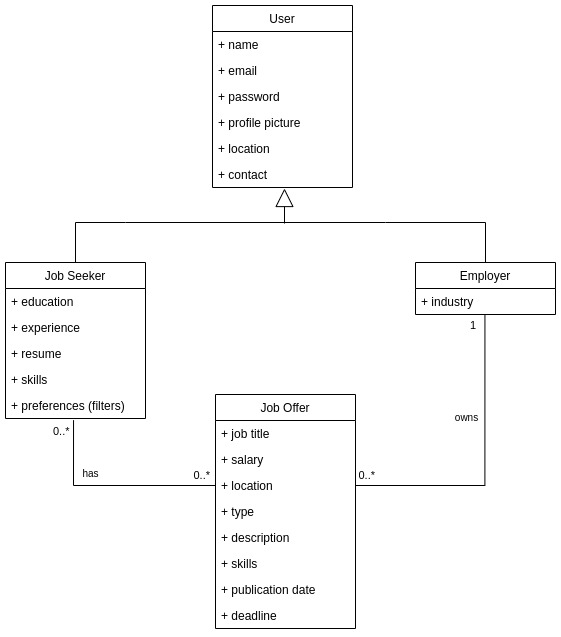
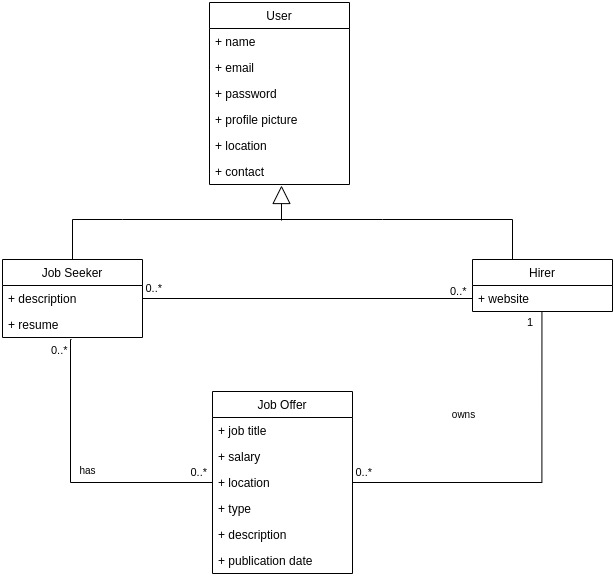
updated report

diff --git a/app/lib/widgets/job_widgets/job_offer.dart b/app/lib/widgets/job_widgets/job_offer.dart
@@ -166,8 +166,8 @@ class JobOffer extends StatelessWidget {
                             onChanged: (value) {
                               bookmark(_id, value);
                             },
-                            iconEnabled: Icon(Icons.bookmark),
-                            iconDisabled: Icon(Icons.bookmark_border),
+                            iconEnabled: const Icon(Icons.bookmark),
+                            iconDisabled: const Icon(Icons.bookmark_border),
                             isEnabled: snapshot.data!,
                           );
                         } else if (snapshot.hasError) {

diff --git a/docs/ProjectManagement.md b/docs/ProjectManagement.md
@@ -1,7 +1,7 @@
 
 ## Project management
 
-**Iteration 1**
+## **Iteration 1**
 
 Begin of iteration:
 <p align="center" justify="center">
@@ -12,9 +12,10 @@ End of iteration:
 <img src="../images/iteration1_end.png" width="700">
 </p>
 
-**Retrospective**: we were not able to complete all the user stories. We could have make a better planning of issues, such as assigning specific people to specific user stories. 
+**Retrospective**: we were not able to complete all the user stories. We could have make a better planning of issues, such as assigning specific people to specific user stories. However, we were able to complete relevant user stories. Also, it was the first iteration in which we had to write code so we were still getting used to the tools and the workflow.
 
-**Iteration 2**
+## **Iteration 2**
+
 Begin of iteration:
 <p align="center" justify="center">
 <img src="../images/iteration2_begin.jpg" width="700">
@@ -23,7 +24,10 @@ End of iteration:
 <p align="center" justify="center">
 <img src="../images/iteration2_end.png" width="700">
 
-**Iteration 3**
+**Retrospective**: we were able to complete all the user stories. We could have make a better planning of issues, such as assigning only one person to a specific user story. This iteration went really well and we implemented most of the main features of the app, allowing a good navigation and interaction with it in a early stage of the development.
+
+## **Iteration 3**
+
 Begin of iteration:
 <p align="center" justify="center">
 <img src="../images/iteration3_begin.jpg" width="700">
@@ -33,4 +37,31 @@ End of iteration:
 <img src="../images/iteration3_end.jpg" width="700">
 </p>
 
- 
+**Retrospective**: this iteration was very complicated due to the fact that we were kind of lost and unsychronized because of other deliveries and exames. Considering this, we could only implement one user story, that was the only one we had put in the iteration backlog because we already knew that the time would be short. The feature is, however, quite nice for the app and provides an extra functionality that fits well in the app.
+We are worried because, probably, we will not be able to implement all the user stories we have planned in the beginning of the project, as the next two weeks will be caotic in terms of other deliveries.
+
+## **Iteration 4**
+
+Begin of iteration:
+<p align="center" justify="center">
+<img src="../images/iteration4_begin.png" width="700">
+</p>
+End of iteration:
+<p align="center" justify="center">
+<img src="../images/iteration4_end.png" width="700">
+</p>
+
+**Retrospective**: as we were expecting, this iteration was very complicated considering that in the previous iterations the work should have been more distributed. We implemented the user story that we defined in the begining of the iteration, however a couple of others still stayed in the backlog waiting to be implemented.
+
+<br>
+<br>
+
+# General Retrospective
+
+In general, we consider that that the app we are delivering, even though is not completed as we wanted it to be, has a nice amount of features and deals with all the tools and concepts that the course was expecting us to apply such as: the integration with an external database (Firebase), the integration with an API to retrieve data (It Jobs), a nice design using Flutter, and a very good lesson in terms of work flow and organization in a team. 
+
+Considering that, at a certain point (end of iteration 3), we noticed that we wouldn't be able to finish what we wanted, we decided to focus on improving the already existing features (such as the search filters, for example). We don't think, though, that we didn't reach what we have proposed because of lack of work. The main reason is because initially we didn't know much about the tools we'd be using. Thus, we submitted an exigent proposal of project (different types of users, with different functionalities for each, etc). As we didn't know, by that time, the implementation details and the exact amount time we'd need to spend on each feature, we ended up discovering that we would probably fail the implementation of all the features during the near-end development. However, it is true that with a better plan this could have been better. 
+
+Unfortunately, we also weren't able to implement relevant testing in our app because we were more worried in delivering the features.
+
+To conclude, we are not completely satisfied with the final result of the app, but we are proud of what we have achieved and we are sure that we have learned a lot with this project. If we forget the initial proposal and think about the app we have now, we consider that is still an app with potential that can be improved in the future and it is, for sure, a good starting point for a future project. Also, it is functional in its main features and domain (only lacking the functionalities we did not implement and some improvements in the existing ones).

diff --git a/docs/ArchitectureAndDesign.md b/docs/ArchitectureAndDesign.md
@@ -2,23 +2,30 @@
 ## Architecture and Design
 ### Logical architecture
 To provide long-term maintainability, the structure of the software is going to be organized in the following layers:
-- **Components**: the main building blocks that will be used to present the user interface, such as buttons, custom widgets, etc.
-- **Screens**: the screens that will be used to present the user interface, such as the login screen, the home screen, etc. Screens will be composed of components.
-- **Controller**: will be responsible for data gathering and manipulation, such as fetchers, parsers, neworking (e.g: login/register ), etc.
-- **Model**: will be responsible for the structure of the data, such as the user model, the job model, etc, using the data collected by the controller. 
+- **Widgets**: the main building blocks that will be used to present the user interface, such as buttons, forms, and other composed widgets that require more than one widget to be built.
+- **Screens**: the screens that will be used to present the user interface, such as the login screen, the home screen, etc. Screens will be composed of widgets.
+- **Controllers**: this is responsible for data gathering and manipulation, such as fetchers, parsers, neworking (e.g: login/register ), etc. This layer will be responsible for the retrieval of data from Firebase and the ItJobs API as well as will serve as a data validator, for example, to check the validity of some user's input.
+- **Models**:  this is responsible for the structure and encapsulation of the data, such as the user model, the job model, etc. Basically, this layer is responsible for the abstraction of the problem domain to the software domain, by defining the entities involved, their attributes and their methods.
 
-![LogicalView](/images/logical_architecture.jpg)
+In addition to these layers that are organized in folders inside the `lib` folder, there are two others: 'Constants' and 'Theme'. However, we decided not to include them in the diagram below because they are not layers, but rather folders that contain files that are used by the other layers. The 'Constants' folder contains files that define constants that are used by the other layers, such as the routes to the screens. The 'Theme' folder contains files that define the theme of the app, such as the colors, the fonts, etc.
+
+Below is a diagram that illustrates the logical architecture of our app. The light boxes represent our in-app layers, while the dark boxes represent external entities that we will interact with (Firebase and ItJobs API):
+
+<p align="center" justify="center">
+<img src="../images/logical_architecture.jpg" width="600"></center>
+</p>
+
 
 ### Physical architecture
 In our app's physical architecture there are 4 main entities:
-- **User's smartphone**: the user's smartphone will be the main device used to access the app. It will be used to display the app's interface and to interact with it.
-- **ITFlow App**: the app will be the main entity of the system. It will be responsible for the user interface and for the interaction with the user.
-- **Firebase Database**: the database will be used to store different information, such as in-app job posting.
-- **ITJobs API**: the API will be used to fetch job offers from an external source.
+- **Smartphone**: the user's smartphone will be the main device used to access the app. It will be used to display the app's interface and to interact with it. It's there where the app will be installed and executed.
+- **ITFlow application**: the app will be the main entity of the system. It will be responsible for the user interface and for the interaction with the user. Note that the app is not a physical entity, but rather a logical one.
+- **Firebase**: this is the service that is used to store the user's data, such as the user's profile, the user's bookmarked job offers, etc. This unit is made up of different components that correspond to the different services that Firebase provides and we are using, such as the Authentication service, the Firestore service and the Storage service (for images and other files).
+- **ITJobs API**: the API that is used to retrieve the job offers that are displayed in the app. 
 
-![DeploymentView](/images/physical_architecture.jpg)
-
-
+<p align="center" justify="center">
+<img src="../images/physical_architecture.jpg" width="600"></center>
+</p>
 
 ### Vertical prototype
 

diff --git a/docs/requirements.md b/docs/requirements.md
@@ -20,16 +20,13 @@ In this section, you should describe all kinds of requirements for your module: 
   - contact;
 ##
 - **Job Seeker**: derives from User. It has the following attributes:
-  - education: such as degree, institution, etc;
-  - experience: years of experience;
+  - description;
   - resume;
-  - skills: such as programming languages, frameworks, etc to match with job offers;
-  - preferences (filters): such as location, salary, etc to match with job offers with those preferences.
   ##
-  A job seeker has many job offers at his/her disposal and job offers are at the disposal of many job seekers.
+  A job seeker has many job offers at his/her disposal and job offers are at the disposal of many job seekers. 
 ##
 - **Employer**: derives from User. It has the following attributes:
-  - industry: specific IT industry, such as software development, data science, automation, etc.
+  - website;
   ##
   A employer owns many job offers and a job offer belongs to a specific employer.
 ##
@@ -39,8 +36,9 @@ In this section, you should describe all kinds of requirements for your module: 
   - location;
   - type: such as full-time, part-time, etc;
   - description;
-  - skills: to match with job seekers with those skills;
   - publication date;
-  - deadline.
   ##
   A job offer has many job seekers looking for it and and is associated with an employer.
+
+
+Note that this is a high-level description and representation of the domain model. However, the app itself has more classes and maybe different attributes in some of them. This is just an overview to show the idea behind the app and the main interaction and relations are here represented.

diff --git a/README.md b/README.md
@@ -14,8 +14,7 @@ You can find here details about the product (or mini-app or module), from a high
   * [Physical architecture](/docs/ArchitectureAndDesign.md#physical-architecture)
   * [Vertical prototype](/docs/ArchitectureAndDesign.md#vertical-prototype)
 * [Implementation]
-* [Test](/app/test)
-* [Configuration and change management]
+* [Test](/docs/Test.md)
 * [Project management](/docs/ProjectManagement.md)
 
 So far, contributions are exclusively made by the initial team, but we hope to open them to the community, in all areas and topics: requirements, technologies, development, experimentation, testing, etc.

diff --git a/docs/Test.md b/docs/Test.md
@@ -1,0 +1,5 @@
+## Tests
+
+Unfortunately we were not able to implement relevant testing in our app because we were more worried in delivering the features and we were still lacking time. We could only manage to do one or two simple unit tests that can be found in [test](../app/test). We did not manage to implement acceptance tests.
+
+However, we are aware of the importance of testing and that will be certainly one of our main concerns in other future projects.
